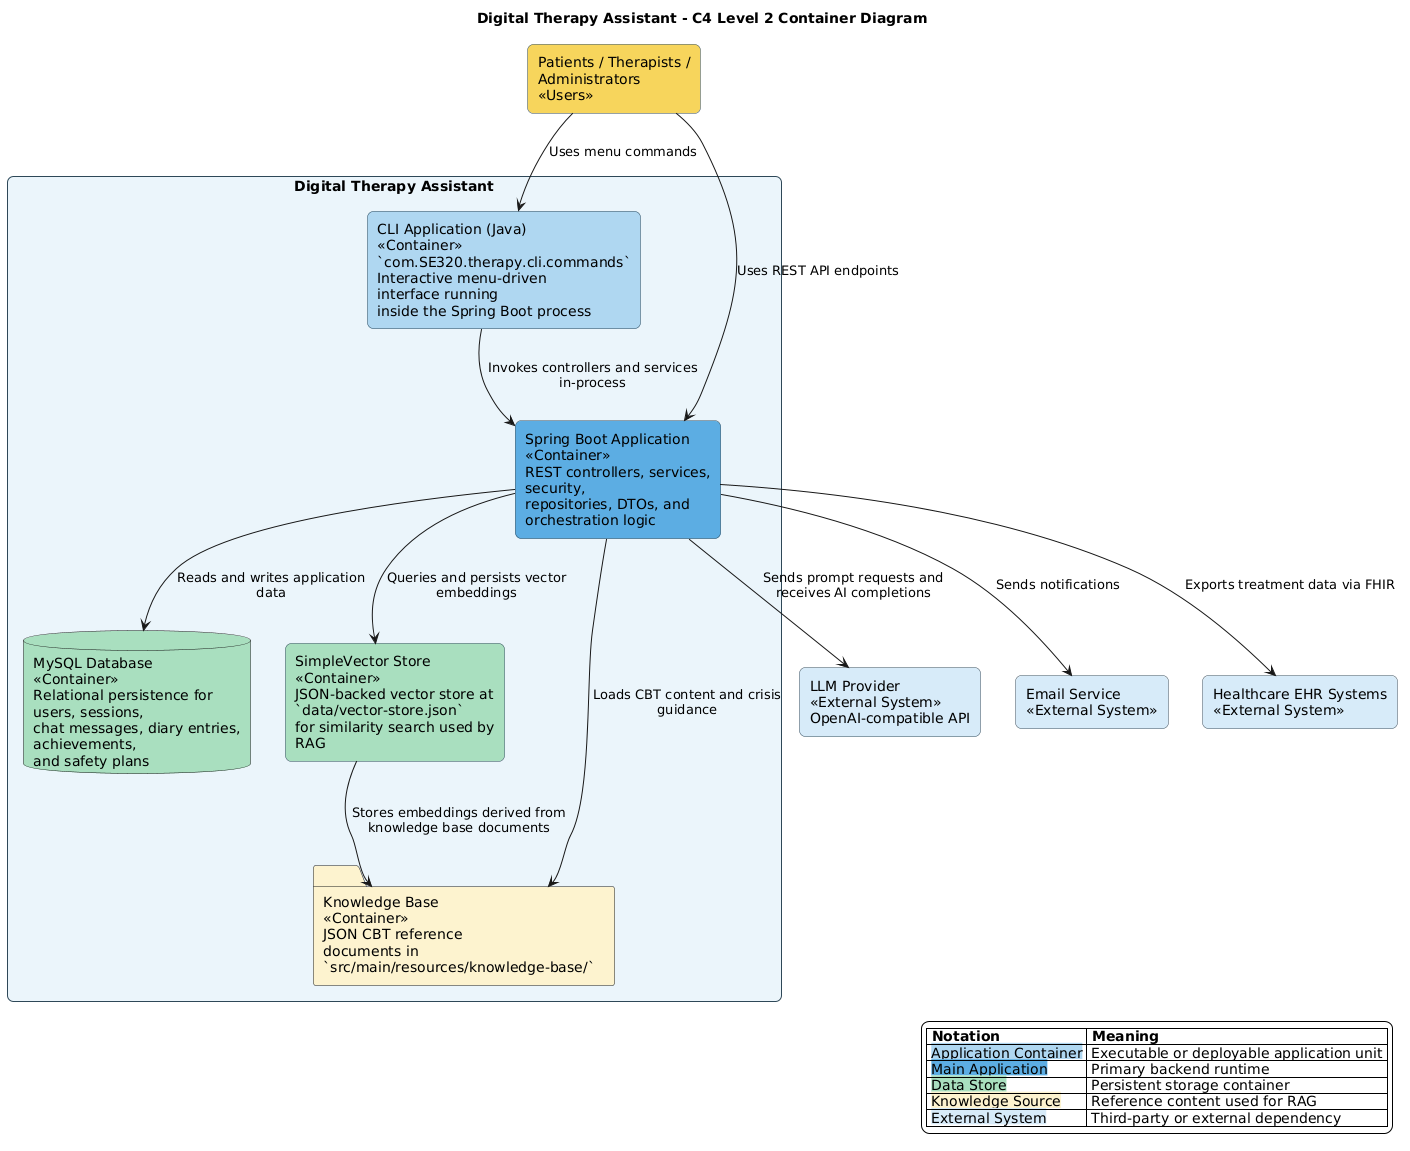
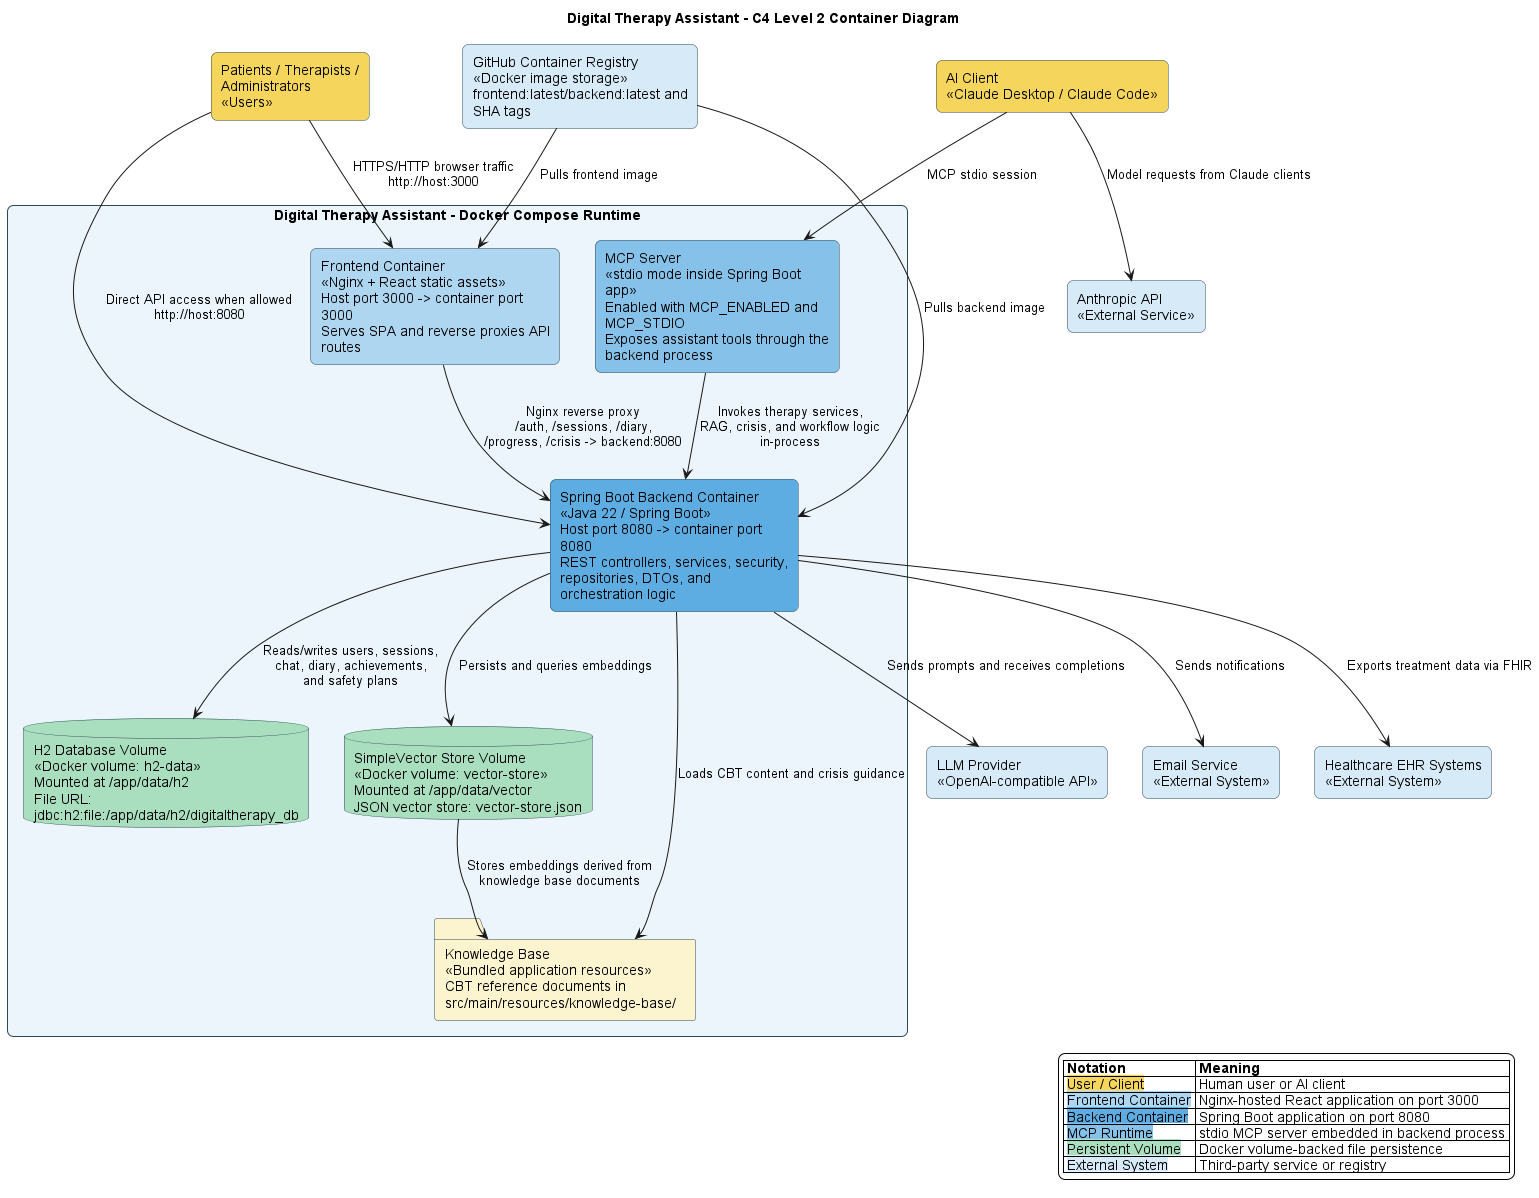
Updated c4 Diagrams for assignment 3

diff --git a/SE320App/docs/architecture/README.md b/SE320App/docs/architecture/README.md
@@ -1,34 +1,43 @@
 # C4 Architecture Diagrams
 
-This folder contains the C4 architecture for the Digital Therapy Assistant.
+This folder contains the C4 architecture and delivery diagrams for the Digital Therapy Assistant.
 
 Files:
 
-- `c4-context.puml`: system context diagram
-- `c4-container.puml`: container diagram
-- `c4-component.puml`: component diagram
-- `c4-code.puml`: code-level diagrams, including one class diagram and two sequence diagrams
+- `c4-context.puml` / `c4-context.png`: Level 1 system context showing users, AI clients over MCP, GitHub automation, GHCR, AWS EC2, and external services.
+- `c4-container.puml` / `c4-container.png`: Level 2 container view showing the Nginx frontend on port 3000, Spring Boot backend on port 8080, embedded MCP stdio server, H2 volume, SimpleVector volume, and reverse proxy flow.
+- `c4-component.puml` / `c4-component.png`: Level 3 backend component view from the earlier assignment.
+- `c4-code.puml` / `c4-code.png`: code-level diagrams, including one class diagram and two sequence diagrams.
+- `c4-deployment.puml` / `c4-deployment.png`: deployment view for AWS EC2, Elastic IP access, Docker Compose, security group rules, secrets, caches, image pulls, and persistent volume mounts.
+- `c4-pipeline.puml` / `c4-pipeline.png`: CI/CD/CD stage-gate pipeline showing CI build/test/quality/security gates, image build and smoke test, and EC2 deployment verification.
 
-Project notes:
+Architecture notes:
 
 - The project root application module is `SE320App/`.
 - The Java package is `com.SE320.therapy`.
-- The running backend is a Spring Boot application with both REST API endpoints and an embedded CLI menu.
-- The current datasource is H2.
-- `UserController` is the authentication and user management controller.
-- `DashboardController` is the progress and analytics controller.
-- `JwtService` is the JWT generation and validation service.
-- Crisis detection logic is implemented primarily in `OpenAiService.detectCrisis(...)` and `CrisisService`, rather than a standalone `CrisisDetector` class.
-- External systems such as Email Service and EHR/FHIR are shown as integration points in the context diagram. They are not fully implemented in the current codebase.
+- The production stack is orchestrated by `docker-compose.yaml`.
+- The frontend container serves the React build through Nginx on port `3000`.
+- Nginx reverse proxies `/auth`, `/sessions`, `/diary`, `/progress`, and `/crisis` traffic to the backend service at `backend:8080`.
+- The backend container runs the Spring Boot Java application on port `8080`.
+- The MCP server runs in stdio mode inside the Spring Boot backend process when `MCP_ENABLED` and `MCP_STDIO` are enabled.
+- H2 data is persisted in the `h2-data` Docker volume mounted at `/app/data/h2`.
+- SimpleVector data is persisted in the `vector-store` Docker volume mounted at `/app/data/vector`.
+- The deployment target is an AWS EC2 instance with an Elastic IP and security group ingress for SSH `22`, frontend `3000`, and backend `8080`.
+- GitHub Actions provide the CI/CD/CD pipeline, GitHub Container Registry stores Docker images, and GitHub secrets provide EC2 and application credentials during deployment.
+- External systems such as Email Service and EHR/FHIR are shown as integration points. They are not fully implemented in the current codebase.
+
+Pipeline summary:
+
+- CI runs on pushes and pull requests to `main` and `develop`.
+- CI builds the backend and frontend first, then runs unit tests, integration tests, code quality checks, dependency checks, and security scanning in parallel.
+- CD build runs on pushes to `main`, builds Docker images, pushes them to GHCR, and smoke tests the composed stack.
+- CD deploy runs after successful delivery or manual dispatch, deploys to EC2 with Docker Compose, and verifies the backend OpenAPI endpoint plus the frontend root route.
 
 PNG export:
 
-- Source diagrams are ready in PlantUML format.
-- To export PNGs locally, install a PlantUML renderer and generate:
-  - `c4-context.png`
-  - `c4-container.png`
-  - `c4-component.png`
-  - `c4-code.png`
+- Source diagrams are in PlantUML format.
+- Current PNG exports are committed beside their `.puml` sources.
+- To regenerate locally, install PlantUML and Graphviz, then run PlantUML over this directory.
 
 Suggested VS Code setup:
 